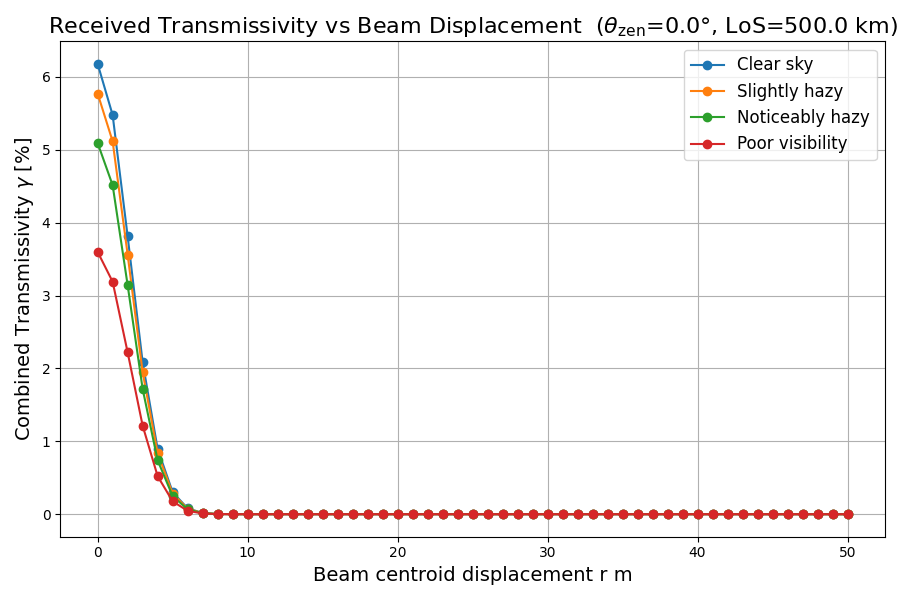
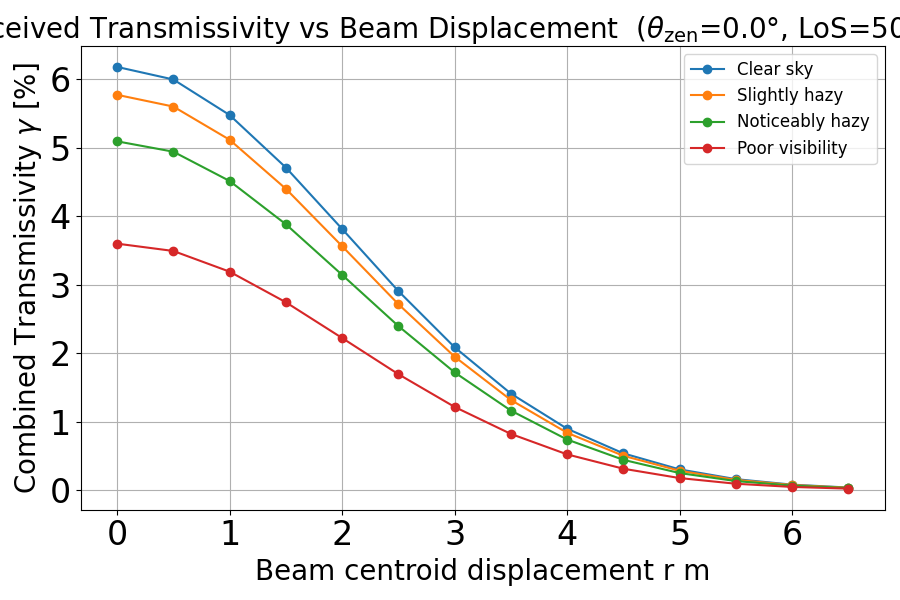
simulate gamma

diff --git a/BB84/SimulationResult/Circle_beam/Transmittance/gamma_displacement_zenith_angle.py b/BB84/SimulationResult/Circle_beam/Transmittance/gamma_displacement_zenith_angle.py
@@ -51,63 +51,62 @@ def calculate_theta_deg_from_Rt(R_t):
     
     return theta_p_deg
 
-
 def main():
     r = np.arange(0, 7, 0.5)
-    tau_zen_list = [0.91, 0.85, 0.75, 0.53]
 
-    # theta_min = 0
-    # theta_max = 10
-    # theta_list = np.linspace(theta_min, theta_max, 5)
+    # --- θ_p の範囲設定 ---
+    theta_min = math.radians(0)     # 0°
+    theta_max = math.radians(10)    # 10°
+    theta_list = np.linspace(theta_min, theta_max, 5)
+    t_list = [theta / omega for theta in theta_list]
 
+    # --- 大気損失設定（例としてtau_zen = 0.91だけ使用） ---
+    tau_zen = 0.91
+
+    # --- プロット ---
     plt.figure(figsize=(9, 6))
 
-    # for theta_deg in theta_list:
-    #     t = math.radians(theta_deg) / omega
-    #     waist = beam_waist(h_s, t)
-        
-    #     eta_b = [transmissivity_etab(a, r_val, waist) for r_val in r]
-    #     eta_t = atmospheric_transmittance(tau_zen, theta_deg)
+    for t in t_list:
+        # 衛星-地上間距離
+        R_t = satellite_ground_distance(h_s, t)
+        # ビームウエスト計算
+        waist = beam_waist(h_s, t)
+        # 現在の時刻tにおける天頂角 [deg]
+        theta_deg = omega * t * 180 / math.pi
 
-    #     R_t = satellite_ground_distance(h_s, t)
-
-    #     # transmissivity をパーセンテージ（%）に変換
-    #     gamma_percent = [eta_b_i * eta_t * 100 for eta_b_i in eta_b]
-
-    #     # グラフ描画
-    #     plt.plot(displacement, gamma_percent, marker='o', label=f'θ_p={theta_deg:.1f}° (R(t)={R_t/1e3:.1f} km)')
-
-    waist = 4
-    R_t = 500e3
-    theta_deg = calculate_theta_deg_from_Rt(R_t)
-    for tau_zen in tau_zen_list:
-        if tau_zen == 0.91:
-            weather = 'Clear sky'
-        elif tau_zen == 0.85:
-            weather = 'Slightly hazy'
-        elif tau_zen == 0.75:
-            weather = 'Noticeably hazy'
-        else:
-            weather = 'Poor visibility'
-        eta_b = [transmissivity_etab(a, r_val, waist) for r_val in r]
+        # 大気損失
         eta_t = transmissivity_etat(tau_zen, theta_deg)
-        gamma_percent = [eta_b_i * eta_t * 100 for eta_b_i in eta_b]
 
-        plt.plot(r, gamma_percent, marker='o', label=fr'{weather}')
+        # ビーム拡がりロス
+        eta_b = [transmissivity_etab(a, r_val, waist) for r_val in r]
 
-    plt.xlabel(f"Beam centroid displacement r m", fontsize=20)
+        # 総合損失
+        gamma = [eta_b_i * eta_t * 100 for eta_b_i in eta_b]
+
+        # QBER計算 (パーセントに変換)
+        # qber_values = [qber_loss(gamma_i) * 100 for gamma_i in gamma]
+
+        # QBER表示（オプション）
+        print(f"\n--- θ_p = {theta_deg:.2f}° (R={R_t/1e3:.2f} km) ---")
+       
+        # グラフ
+        plt.plot(r, gamma, marker='o', label=fr'$\theta_{{zen}}$={theta_deg:.1f}° (R={R_t/1e3:.1f} km)')
+
+    # --- グラフ仕上げ ---
+    plt.xlabel(r"Beam centroid displacement $r$ [m]", fontsize=20)
     plt.ylabel(r"Combined Transmissivity $\gamma$ [%]", fontsize=20)  # % に変更
-    plt.title(fr"Received Transmissivity vs Beam Displacement  ($\theta_\text{{zen}}$={theta_deg:.1f}°, LoS={R_t/1e3:.1f} km)", fontsize=20)
+    plt.title(r"$\gamma$ vs Beam Displacement (Clear Sky)", fontsize=20)
     plt.grid(True)
     plt.legend(fontsize=12)
     plt.xticks(fontsize=24)
     plt.yticks(fontsize=24)
     plt.tight_layout()
 
-    output_path = os.path.join(os.path.dirname(__file__), "gamma_vs_displacement_percent.png")
+    # --- 保存 & 表示 ---
+    output_path = os.path.join(os.path.dirname(__file__), "gamma_vs_displacement _plot.png")
     plt.savefig(output_path)
-    print(f"✅ Save as: {output_path}")
+    print(f"✅ Saved as: {output_path}")
     plt.show()
 
-if __name__ == "__main__":
+if __name__ == '__main__':
     main()

diff --git a/BB84/SimulationResult/Circle_beam/Atmospheric/transmissivity_t_displacement.py b/BB84/SimulationResult/Circle_beam/Atmospheric/transmissivity_t_displacement.py
@@ -1,0 +1,56 @@
+import matplotlib.pyplot as plt
+import numpy as np
+import os, sys
+import math
+
+simulation_path = os.path.abspath(os.path.join(os.path.dirname(__file__), '../../../', 'Model'))
+sys.path.append(simulation_path)
+from atmospheric_transmissivity import transmissivity_etat, to_decimal_string
+
+
+# Constants
+tau_zen = 0.91  # Atmospheric transmissivity at zenith
+a = 0.75        # Aperture radius (Receiver)
+G = 6.67430e-11 # Gravitational constant
+M_T = 5.972e24  # Earth's mass
+D_E = 6378e3    # Earth's radius (km)
+h_s = 500e3     # Satellite's altitude
+
+d_o = D_E + h_s
+omega = math.sqrt(G * M_T / d_o**3)
+
+def main():
+    r = np.arange(0, 7, 0.5)  # Beam displacement range [m]
+    theta_min = 0
+    theta_max = 10
+    theta_list = np.linspace(theta_min, theta_max, 5)  # Zenith angles from 0 to 10 degrees
+
+    plt.figure(figsize=(9, 6))
+
+    for theta_deg in theta_list:
+        # Calculate eta_t for each zenith angle
+        eta_t = [transmissivity_etat(tau_zen, theta_deg) for _ in r]
+
+        # Plot the result
+        plt.plot(r, eta_t, marker='o', label=fr'$\theta_{{zen}}$={theta_deg}°')
+
+    plt.xlabel("Beam centroid displacement r (m)", fontsize=20)
+    plt.ylabel(r"Atmospheric Transmissivity $\eta_t$", fontsize=20)
+    plt.title(f"Atmospheric Transmissivity vs Beam Displacement (Clear Sky)", fontsize=20)
+    plt.grid(True)
+    plt.legend(fontsize=12)
+    plt.xticks(fontsize=24)
+    plt.yticks(fontsize=24)
+    plt.tight_layout()
+
+    # Save and show the plot
+    output_path = "transmissivity_vs_displacement_for_zenith_angle.png"
+    plt.savefig(output_path)
+    print(f"✅ Save as: {output_path}")
+    plt.show()
+
+if __name__ == "__main__":
+    main()
+
+if __name__ == '__main__':
+    main()
